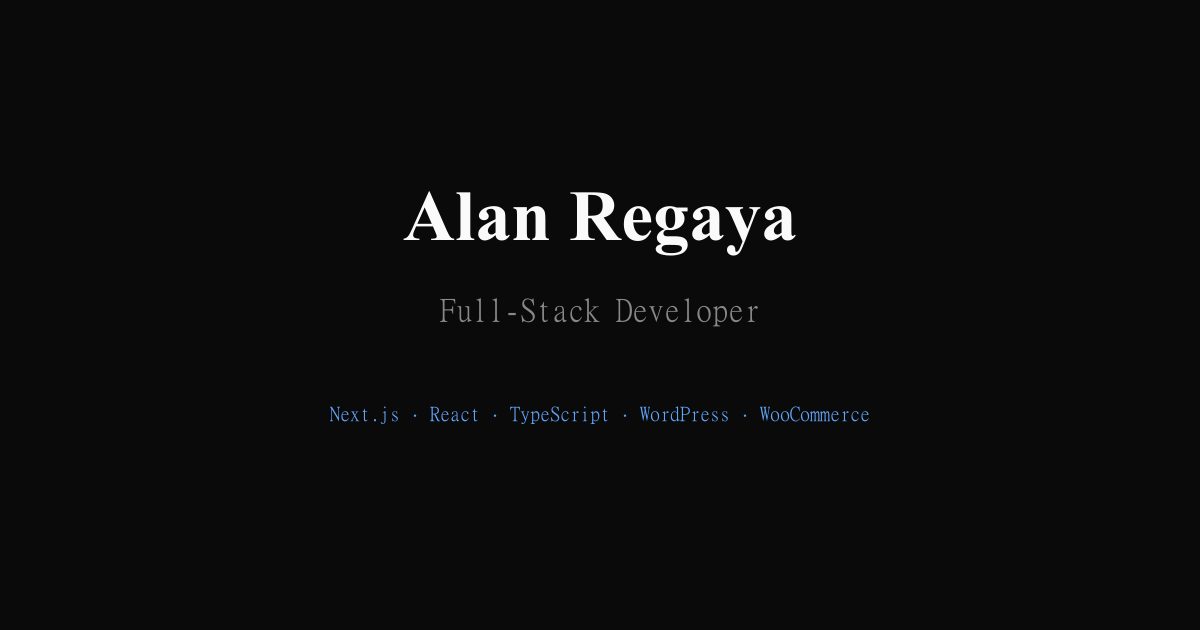
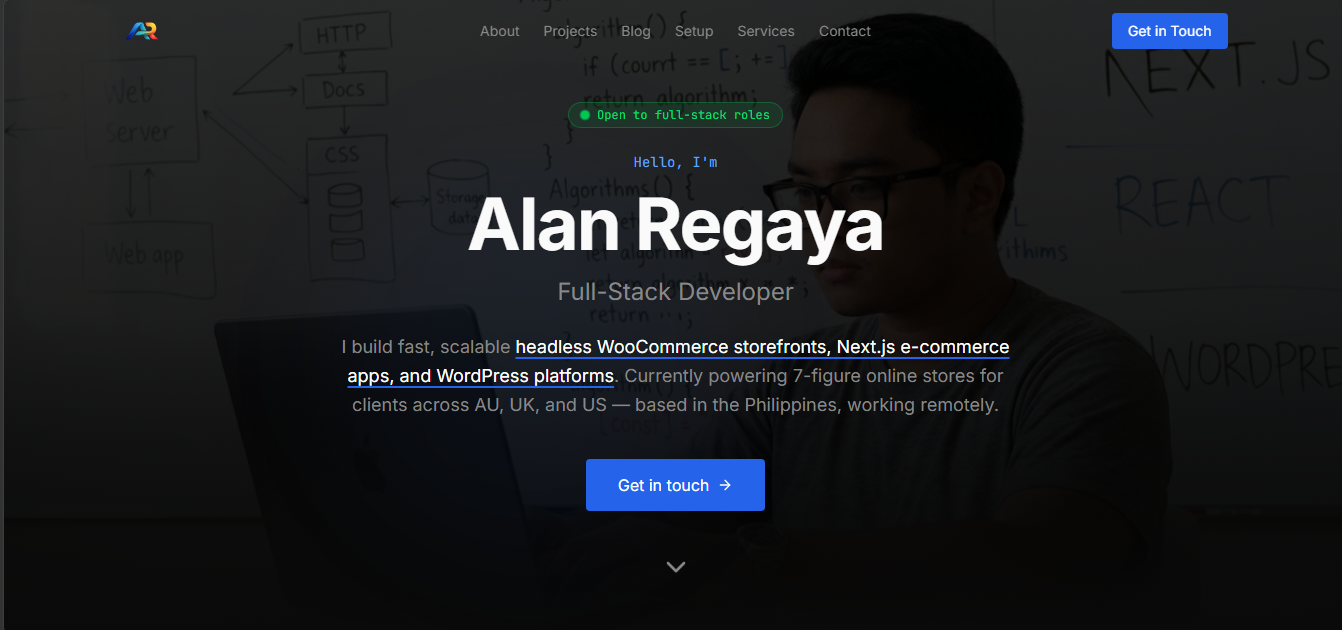
feat(hero): add photo background with dark overlay (#91)
* feat(hero): add photo background with dark overlay

Replace gradient-only hero background with a coding-at-desk photo and a
layered dark overlay (flat 70% + bottom-fading gradient) to keep the
white headline legible and blend into the page below.

* feat(og): refresh og-image with new hero composition

---------

Changed region(s): [[0.0, 0.0, 1.0, 1.0], [0.4317, 0.7238, 0.5858, 0.8143], [0.4933, 0.8746, 0.5242, 0.9048]]

diff --git a/src/components/home/Hero.tsx b/src/components/home/Hero.tsx
@@ -1,11 +1,22 @@
+import Image from 'next/image';
 import Link from 'next/link';
 import { siteConfig } from '@/data/site-config';
 
 export function Hero() {
   return (
     <section className="relative min-h-screen flex items-center justify-center px-4 sm:px-6 overflow-hidden pt-20 sm:pt-24 lg:pt-16 pb-8 lg:pb-0" aria-labelledby="hero-heading">
-      {/* Background gradient */}
-      <div className="absolute inset-0 bg-gradient-to-br from-blue-950/20 via-[var(--color-background)] to-[var(--color-background)] pointer-events-none" aria-hidden="true" />
+      <Image
+        src="/hero-bg.png"
+        alt=""
+        fill
+        priority
+        sizes="100vw"
+        className="object-cover object-center pointer-events-none -z-10"
+        aria-hidden="true"
+      />
+      {/* Dark overlay for legibility over the photo */}
+      <div className="absolute inset-0 bg-black/70 pointer-events-none" aria-hidden="true" />
+      <div className="absolute inset-0 bg-gradient-to-b from-black/40 via-black/60 to-[var(--color-background)] pointer-events-none" aria-hidden="true" />
       <div className="absolute top-1/4 left-1/4 w-96 h-96 bg-blue-500/5 rounded-full blur-3xl pointer-events-none" aria-hidden="true" />
 
       <div className="relative max-w-3xl mx-auto text-center">
